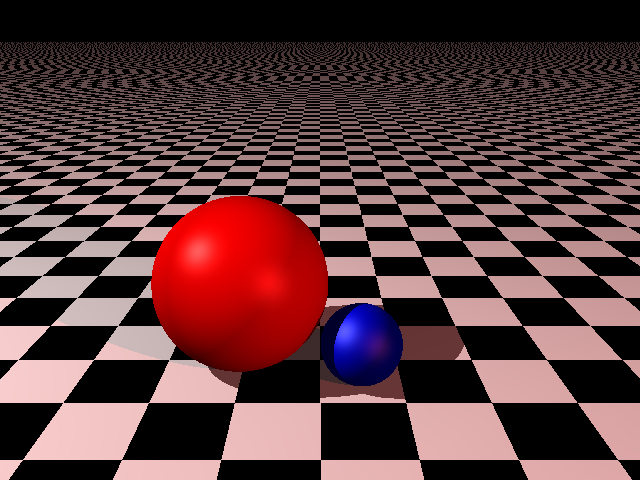
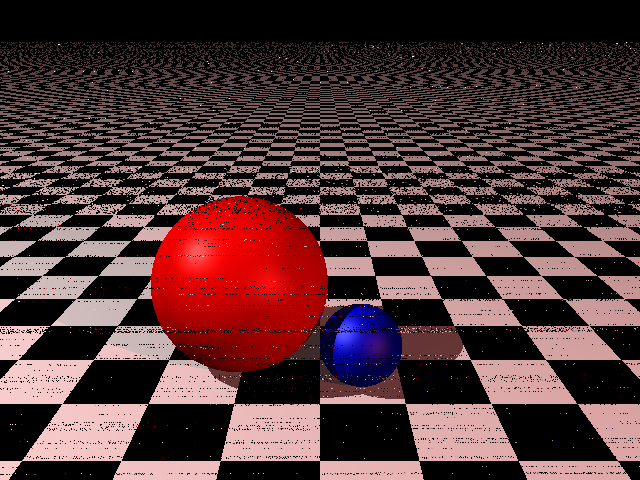
Begun to attempt parallelizing - naive yields race conditions when calculating intersections

diff --git a/src/comp557/a4/Scene.java b/src/comp557/a4/Scene.java
@@ -7,6 +7,11 @@ import java.util.List;
 import java.util.Map;
 import java.util.Random;
 import java.util.Map.Entry;
+import java.util.concurrent.Executor;
+import java.util.concurrent.ExecutorService;
+import java.util.concurrent.Executors;
+import java.util.concurrent.ThreadPoolExecutor;
+import java.util.concurrent.TimeUnit;
 import java.util.Vector;
 
 import javax.vecmath.Color3f;
@@ -49,46 +54,38 @@ public class Scene {
         
         render.init(w, h, showPanel);
         
-        for ( int i = 0; i < h && !render.isDone(); i++ ) {
-            for ( int j = 0; j < w && !render.isDone(); j++ ) {
-            	Color3f c;
-            	if( render.jitter )
-            	{
-            		int samplesPerDim = (int) Math.ceil( Math.sqrt( render.samples ) );
-            		Random rand = new Random();
-            		c = new Color3f();
-            		for( int y = 0; y < samplesPerDim; y++ )
-            		{
-            			for( int x = 0; x < samplesPerDim; x++ )
-            			{
-            				double rx = -0.5 +  ( x + rand.nextDouble() )/samplesPerDim;
-            				double ry = -0.5 +  ( y + rand.nextDouble() )/samplesPerDim;
-
-        	            	Ray ray = new Ray();
-        	            	generateRay(i, j, new double[] { rx, ry }, cam, ray);
-        	                c.add( getPixelColour( render, ray ) );
-            			}
-            		}
-            		c.scale( 1.0f/(float)(samplesPerDim*samplesPerDim) );
-            	}
-            	else
-            	{
-	            	Ray ray = new Ray();
-	            	generateRay(i, j, new double[] { 0.0, 0.0 }, cam, ray);
-	            	
-	                c = getPixelColour( render, ray );
-            	}
-        		
-            	int r = (int)( 255*( c.x ) );
-                int g = (int)( 255*( c.y ) );
-                int b = (int)( 255*( c.z ) );
-                
-                // update the render image
-                int a = 255;
-                int argb = (a<<24 | r<<16 | g<<8 | b);   
-                render.setPixel(j, i, argb);
-            }
+        if( true )
+        {
+	        ThreadPoolExecutor executor = (ThreadPoolExecutor) Executors.newFixedThreadPool(16);
+	        
+	        for ( int i = 0; i < h && !render.isDone(); i++ ) {
+	            for ( int j = 0; j < w && !render.isDone(); j++ ) {
+	            	final int idxX = j;
+	            	final int idxY = i;
+	            	executor.submit( ()-> { drawPixel( idxY, idxX,render); } );
+	            }
+	        }
+	        
+	        try 
+	        {
+	        	while( executor.awaitTermination( 1, TimeUnit.SECONDS ) );
+	        }
+	        catch( InterruptedException e )
+	        {
+	        	e.printStackTrace();
+	        }
         }
+        else
+        {
+	        for ( int i = 0; i < h && !render.isDone(); i++ ) {
+	            for ( int j = 0; j < w && !render.isDone(); j++ ) {
+	            	final int idxX = j;
+	            	final int idxY = i;
+	            	drawPixel( idxY, idxX,render);
+	            }
+	        }
+        }
+        
         
         // save the final render image
         render.save();
@@ -97,10 +94,56 @@ public class Scene {
         render.waitDone();        
     }
     
+    public void drawPixel( int i, int j, Render render )
+    {
+    	Camera cam = render.camera;
+    	Color3f c;
+    	if( render.jitter )
+    	{
+    		int samplesPerDim = (int) Math.ceil( Math.sqrt( render.samples ) );
+    		Random rand = new Random();
+    		c = new Color3f();
+    		for( int y = 0; y < samplesPerDim; y++ )
+    		{
+    			for( int x = 0; x < samplesPerDim; x++ )
+    			{
+    				double rx = -0.5 +  ( x + rand.nextDouble() )/samplesPerDim;
+    				double ry = -0.5 +  ( y + rand.nextDouble() )/samplesPerDim;
+
+	            	Ray ray = new Ray();
+
+	            	generateRay(i, j, new double[] { rx, ry }, cam, ray);
+	                c.add( getPixelColour( render, ray ) );
+    			}
+    		}
+    		c.scale( 1.0f/(float)(samplesPerDim*samplesPerDim) );
+    	}
+    	else
+    	{
+        	Ray ray = new Ray();
+        	generateRay(i, j, new double[] { 0.0, 0.0 }, cam, ray);
+
+        	
+            c = getPixelColour( render, ray );
+    	}
+		
+    	int r = (int)( 255*( c.x ) );
+        int g = (int)( 255*( c.y ) );
+        int b = (int)( 255*( c.z ) );
+    	
+        // update the render image
+        int a = 255;
+        int argb = (a<<24 | r<<16 | g<<8 | b);   
+        render.setPixel(j, i, argb);
+    	
+    }
+    
     public Color3f getPixelColour( Render render, Ray ray )
     {
+
     	IntersectResult result = null;
         double t = Double.POSITIVE_INFINITY;
+
     	for( Intersectable curr : surfaceList )
     	{
     		IntersectResult temp = new IntersectResult();
@@ -112,8 +155,6 @@ public class Scene {
     			result = temp;
     		}
     	}
-        // TODO: Objective 3: compute the shaded result for the intersection point (perhaps requiring shadow rays)
-        
     	// Here is an example of how to calculate the pixel value.
 
 
@@ -137,15 +178,11 @@ public class Scene {
     			origin.add(shadowRayDir);
     			origin.scale( 1e-4 );
     			origin.add( result.p );
-    			Ray shadowRay = new Ray( origin, shadowRayDir );
-    			
+    			Ray shadowRay = new Ray( origin, shadowRayDir );                
 
-            	Color3f c = new Color3f(render.bgcolor);
-            	int r = (int)(255*c.x);
-                int g = (int)(255*c.y);
-                int b = (int)(255*c.z);
-                int a = 255;
-                int argb = (a<<24 | r<<16 | g<<8 | b);   		t = Double.POSITIVE_INFINITY;
+    			boolean shadowed = false;
+    			
+                t = Double.POSITIVE_INFINITY;
     			for( Intersectable curr : surfaceList )
             	{
             		IntersectResult temp = new IntersectResult();
@@ -157,17 +194,16 @@ public class Scene {
             		}
             	}
     			
-    			boolean shaded = false;
-    			if( t < Double.POSITIVE_INFINITY ) //TEST without shading
+    			if( t < Double.POSITIVE_INFINITY ) 
     			{
     				Vector3d originToIntersectable 	= new Vector3d();
     				originToIntersectable.add( shadowRayDir );
     				originToIntersectable.scale( t );
     				
-    				shaded = ( originToIntersectable.lengthSquared() < shadowRayDir.lengthSquared() ); //Use lengthSquared as its cheaper
+    				shadowed = ( originToIntersectable.lengthSquared() < shadowRayDir.lengthSquared() ); //Use lengthSquared as its cheaper
     			}
     			
-    			if( !shaded )
+    			if( !shadowed )
     			{
     				Vector3d v = new Vector3d( ray.viewDirection );
     				v.scale( -1.0 );
@@ -209,8 +245,9 @@ public class Scene {
 		lightingR = Math.max( 0.0, Math.min( lightingR, 1.0 ) );
 		lightingG = Math.max( 0.0, Math.min( lightingG, 1.0 ) );
 		lightingB = Math.max( 0.0, Math.min( lightingB, 1.0 ) );
-		
+
 		return new Color3f( new float[]{ (float)lightingR, (float)lightingG, (float)lightingB } );
+		
     }
     
     /**
@@ -247,8 +284,8 @@ public class Scene {
 		double viewPlaneHeight 	= d / ( 3 * tanTerm );
 		double viewPlaneWidth 	= viewPlaneHeight * aspectRatio;
 		
-		double scalar_u = ( ( (float)(j + offset[1]) / (float)imgWidth - 0.5f ) * viewPlaneWidth ); //TODO offset
-		double scalar_v = ( ( (float)( imgHeight - i + offset[0] ) / (float)imgHeight - 0.5f ) * viewPlaneHeight ); //TODO offset
+		double scalar_u = ( ( (float)(j + offset[1] + 0.5f) / (float)imgWidth - 0.5f ) * viewPlaneWidth ); 
+		double scalar_v = ( ( (float)( imgHeight - i + offset[0] + 0.5f ) / (float)imgHeight - 0.5f ) * viewPlaneHeight ); 
 		
 		Vector3d rayDir = new Vector3d();
 		Vector3d temp	= new Vector3d();
@@ -267,95 +304,5 @@ public class Scene {
 		
 		ray.set( e, rayDir );
 	}
-	
-	public void testRayGeneration( boolean showPanel ) //Call in render to draw rayDir x,y as image r,b
-	{
-		Camera cam = render.camera; 
-        int w = cam.imageSize.width;
-        int h = cam.imageSize.height;
-        
-        render.init(w, h, showPanel);
-        
-        for ( int i = 0; i < h && !render.isDone(); i++ ) {
-            for ( int j = 0; j < w && !render.isDone(); j++ ) {
-            	
-                // TODO: Objective 1: generate a ray (use the generateRay method)
-            	Ray ray = new Ray();
-            	generateRay(i, j, new double[] { 0.0, 0.0 }, cam, ray);
-                // TODO: Objective 2: test for intersection with scene surfaces
-            	
-                // TODO: Objective 3: compute the shaded result for the intersection point (perhaps requiring shadow rays)
-            	IntersectResult result = null;
-            	double t = Double.POSITIVE_INFINITY;
-            	for( Intersectable surface : surfaceList )
-            	{
-            		IntersectResult temp = new IntersectResult();
-            		surface.intersect( ray, temp );
-            		if ( temp.t < t )
-            		{
-            			t	 	= temp.t;
-            			result 	= temp;
-            		}
-            	}
-            	
-            	int argb;
-            	if( result == null )
-            	{
-            		Color3f c = new Color3f(render.bgcolor);
-                	int r = (int)(255*( c.x ));
-                    int g = (int)(255*( c.y ));
-                    int b = (int)(255*( c.z ));
-                    int a = 255;
-                    argb = (a<<24 | r<<16 | g<<8 | b);    
-            	}
-            	else
-            	{
-            		Color3f c = new Color3f(1,1,1);
-                	int r = (int)(255*( c.x ));
-                    int g = (int)(255*( c.y ));
-                    int b = (int)(255*( c.z ));
-                    int a = 255;
-                    argb = (a<<24 | r<<16 | g<<8 | b); 
-            	}
-                for ( Light light : lights.values() )
-                {
-                	
-                }
-            	// Here is an example of how to calculate the pixel value.
-
-
-        		Vector3d rayDir = new Vector3d();
-        		rayDir.normalize(ray.viewDirection);
-        		
-        		
-                
-                // update the render image
-                render.setPixel(j, i, argb);
-            }
-        }
-        
-        // save the final render image
-        render.save();
-        
-        // wait for render viewer to close
-        render.waitDone();
-        
-    }
-	/**
-	 * Shoot a shadow ray in the scene and get the result.
-	 * 
-	 * @param result Intersection result from raytracing. 
-	 * @param light The light to check for visibility.
-	 * @param root The scene node.
-	 * @param shadowResult Contains the result of a shadow ray test.
-	 * @param shadowRay Contains the shadow ray used to test for visibility.
-	 * 
-	 * @return True if a point is in shadow, false otherwise. 
-	 */
-	public static boolean inShadow(final IntersectResult result, final Light light, final SceneNode root, IntersectResult shadowResult, Ray shadowRay) {
-		
-		// TODO: Objective 5: check for shdows and use it in your lighting computation
-		
-		return false;
-	}    
+	 
 }

diff --git a/src/comp557/a4/Mesh.java b/src/comp557/a4/Mesh.java
@@ -33,7 +33,6 @@ public class Mesh extends Intersectable {
 	public void intersect(Ray ray, IntersectResult result) 
 	{
 		System.out.println("");
-		// TODO: Objective 7: ray triangle intersection for meshes
 		List<int[]> faces = soup.faceList;
 		List<Vertex> verts = soup.vertexList;
 		
